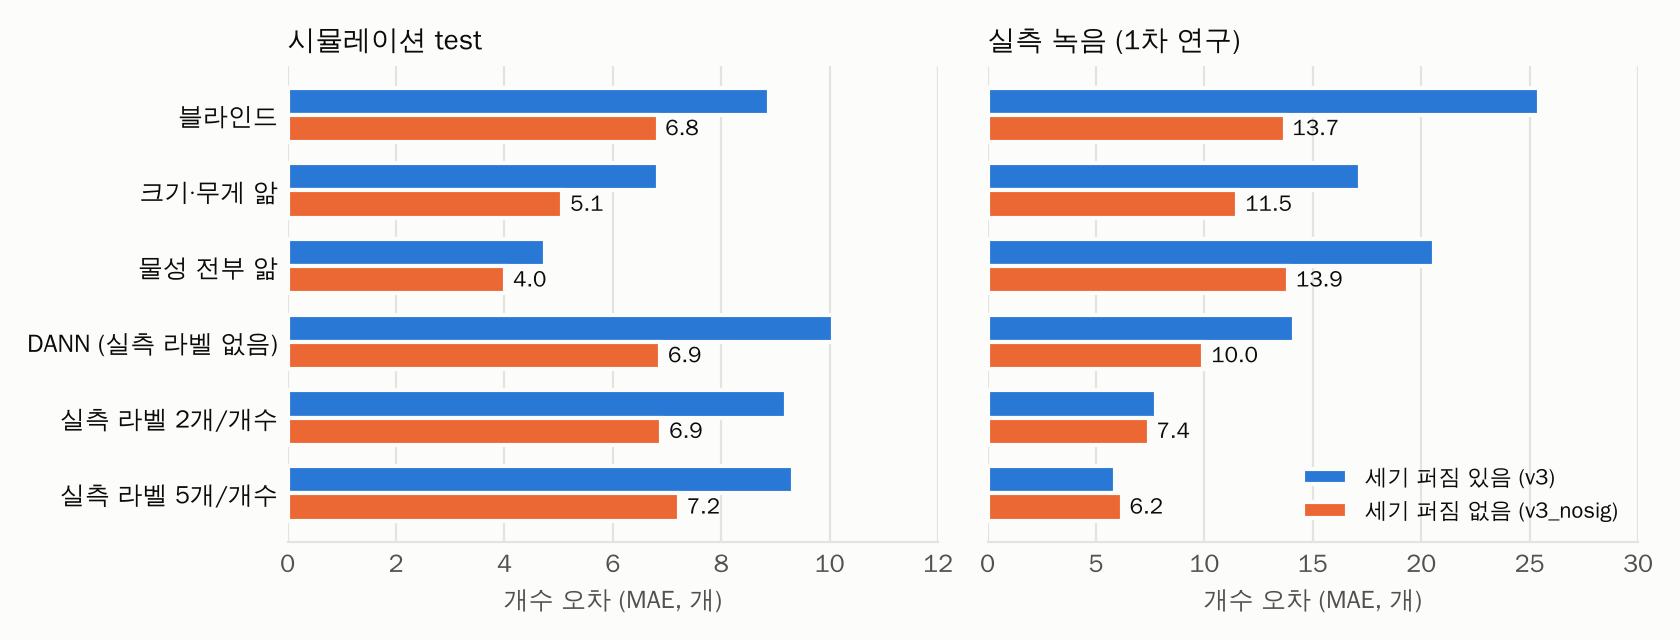
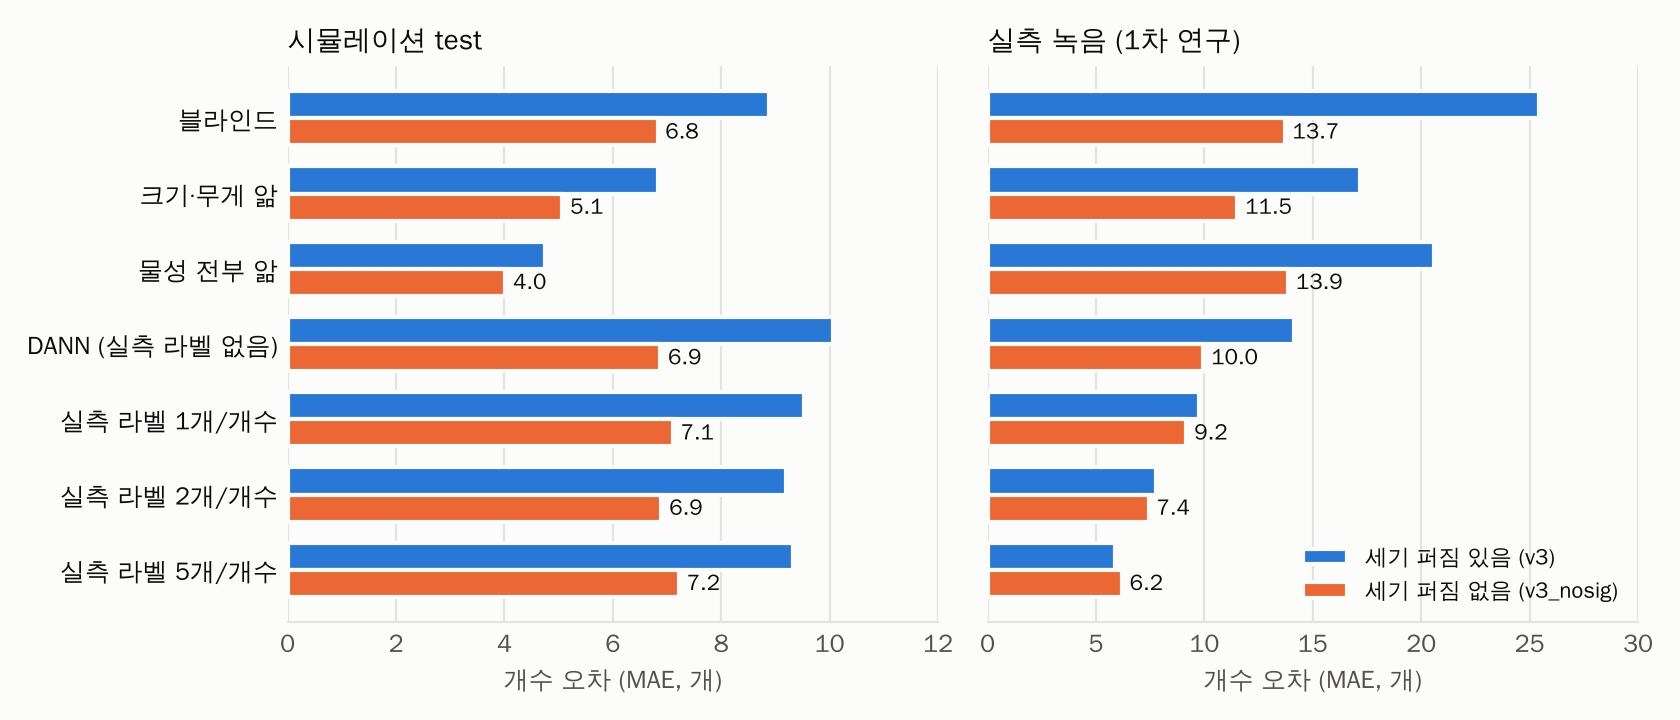
보고서: V8~V11 결과 (DANN + 크기·무게 앎으로 실측 7.3), 시드 반복, 앙상블 정리
Claude-Session: https://claude.ai/code/session_01LuqW9C84oeRM5QGpj8zSCT

diff --git a/scripts/make_result_figures.py b/scripts/make_result_figures.py
@@ -54,10 +54,11 @@ def fig_nosig_real():
             ("크기·무게 앎", "A2_known_size_weight", "V2_nosig_known_size_weight"),
             ("물성 전부 앎", "A3_known_all", "V3_nosig_known_all"),
             ("DANN (실측 라벨 없음)", "C1_dann", "V4_nosig_dann"),
+            ("실측 라벨 1개/개수", "G_real_labeled_1", "V11_nosig_real_labeled_1"),
             ("실측 라벨 2개/개수", "G_real_labeled_2", "V6_nosig_real_labeled_2"),
             ("실측 라벨 5개/개수", "G_real_labeled_5", "V7_nosig_real_labeled_5")]
     rows = [r for r in rows if r[1] in R and r[2] in R]
-    fig, axs = plt.subplots(1, 2, figsize=(8.4, 3.2), facecolor=SURF, sharey=True)
+    fig, axs = plt.subplots(1, 2, figsize=(8.4, 3.6), facecolor=SURF, sharey=True)
     y = np.arange(len(rows))[::-1]
     h = 0.36
     for ax, key, title, xmax in [(axs[0], "test", "시뮬레이션 test", 12), (axs[1], "real", "실측 녹음 (1차 연구)", 30)]:

diff --git a/docs/REPORT_DRAFT.md b/docs/REPORT_DRAFT.md
@@ -13,7 +13,7 @@
 
 1차 연구는 같은 비비탄을 담은 용기를 수직으로 흔들 때 나는 소리로 입자 개수를 추정했다 (웨이블릿 스케일로그램 CNN, 평균 절대오차 2.2개). 그러나 이 방법은 입자의 물성을 이미 안다는 전제에서만 성립한다. 소리는 개수와 물성(지름, 질량, 반발계수)의 조합에 반응하기 때문에, 물성이 바뀌면 "작은 입자 여러 개"와 "큰 입자 몇 개"가 비슷하게 들릴 수 있다.
 
-본 연구는 **입력은 소리뿐이고 물성은 모르는 상태에서** 개수와 물성을 함께 추정하는 것을 목표로 한다. 물성을 연속적으로 바꾸며 정확한 라벨을 붙인 실험 데이터를 대량으로 얻을 수 없으므로, 3차원 이산요소법(DEM) 동역학과 충돌음 합성으로 이루어진 물리 시뮬레이터를 만들고, 1차 연구의 실제 녹음으로 시뮬레이터를 보정했다. 보정 과정에서 (1) 실제 가진 속도가 녹음마다 6.04~6.64 Hz로 달랐고, (2) 입자끼리의 충돌은 거의 탄성적(e ≈ 0.95)인 반면 입자-벽 충돌은 손실이 크다(e ≈ 0.7)는 것을 찾았다. 물성을 무작위로 바꾼 시뮬레이션 데이터 약 2만 클립으로 개수·물성 동시 추정 모델을 학습하고, 물성을 알려 줄 때와 모를 때, 여러 가진 속도를 함께 쓸 때를 비교했다. 물성을 모르는 모델은 시뮬레이션에서 평균 6.8개, 학습에 없던 물질에서 6.9개 오차로 개수를 맞히고 지름도 함께 추정했으며, 지름·무게를 알려 주면 5.1개로 줄었다. 여러 가진 속도의 소리를 함께 쓰면 물성 추정이 좋아졌다 (지름 R² 0.62 → 0.78). 실제 녹음에서는 처음에 보정한 합성음이 오히려 나빴는데 (평균 25개 오차), 소리만 바꾼 대조 실험으로 원인이 진폭 분포를 맞추려 넣은 충돌별 세기 무작위화임을 밝혔고, 이를 빼자 13.7개로 줄었다. 라벨 없는 실측 녹음으로 도메인 적응을 하면 정답 없이 10.0개, 개수별 녹음 5개에 정답을 붙이면 6.2개였다.
+본 연구는 **입력은 소리뿐이고 물성은 모르는 상태에서** 개수와 물성을 함께 추정하는 것을 목표로 한다. 물성을 연속적으로 바꾸며 정확한 라벨을 붙인 실험 데이터를 대량으로 얻을 수 없으므로, 3차원 이산요소법(DEM) 동역학과 충돌음 합성으로 이루어진 물리 시뮬레이터를 만들고, 1차 연구의 실제 녹음으로 시뮬레이터를 보정했다. 보정 과정에서 (1) 실제 가진 속도가 녹음마다 6.04~6.64 Hz로 달랐고, (2) 입자끼리의 충돌은 거의 탄성적(e ≈ 0.95)인 반면 입자-벽 충돌은 손실이 크다(e ≈ 0.7)는 것을 찾았다. 물성을 무작위로 바꾼 시뮬레이션 데이터 약 2만 클립으로 개수·물성 동시 추정 모델을 학습하고, 물성을 알려 줄 때와 모를 때, 여러 가진 속도를 함께 쓸 때를 비교했다. 물성을 모르는 모델은 시뮬레이션에서 평균 6.8개, 학습에 없던 물질에서 6.9개 오차로 개수를 맞히고 지름도 함께 추정했으며, 지름·무게를 알려 주면 5.1개로 줄었다. 여러 가진 속도의 소리를 함께 쓰면 물성 추정이 좋아졌다 (지름 R² 0.62 → 0.78). 실제 녹음에서는 처음에 보정한 합성음이 오히려 나빴는데 (평균 25개 오차), 소리만 바꾼 대조 실험으로 원인이 진폭 분포를 맞추려 넣은 충돌별 세기 무작위화임을 밝혔고, 이를 빼자 13.7개로 줄었다. 라벨 없는 실측 녹음으로 도메인 적응을 하면 정답 없이 10.0개, 여기에 실제로 잰 지름·무게를 알려 주면 7.3개, 개수별 녹음 5개에 정답을 붙이면 6.2개였다. 남은 실측 오차는 물질 혼동이 아니라 적은 입자가 더 동기화되어 튀는 동역학의 차이에서 왔다.
 
 주제어: 진동 음향 신호, 개수 추정, 수직 가진 과립계, 이산요소법, 시뮬레이션-실측 차이(sim2real), 도메인 무작위화
 
@@ -289,16 +289,20 @@ N 평균 절대오차 (개). test = 학습과 같은 물성 분포의 새 실행
 
 | 실험 | 세기 퍼짐 있음 (v3): test / 실측 | **세기 퍼짐 없음 (v3_nosig): test / OOD / 실측** | 실측 ±5개 이내 |
 |---|---|---|---|
-| 블라인드 | 8.9 / 25.4 (A1) | 6.8 / 6.9 / **13.7** (V1) | 15% → 19% |
+| 블라인드 | 8.9 / 25.4 (A1) | 6.8 / 6.9 / **13.7** (V1; 시드 반복 V9 13.5) | 15% → 19% |
 | 크기·무게 앎 | 6.8 / 17.2 (A2) | 5.1 / 5.4 / **11.5** (V2) | 17% → 20% |
 | 전부 앎 | 4.8 / 20.6 (A3) | 4.0 / 4.4 / **13.9** (V3) | 15% → 14% |
-| DANN (라벨 없는 실측 5개/개수) | 10.1 / 14.1 (C1) | 6.9 / 7.2 / **10.0** (V4) | 18% → 39% |
+| DANN (라벨 없는 실측 5개/개수) | 10.1 / 14.1 (C1) | 6.9 / 7.2 / **10.0** (V4; 시드 반복 V10 10.2) | 18% → 39% |
+| **DANN + 크기·무게 앎** | – | 5.5 / 6.1 / **7.3** (V8) | 48% |
 | HPSS + 잡음 제거 + DANN | 9.5 / 17.9 (B8) | 7.0 / 7.3 / **12.3** (V5) | 16% → 20% |
+| 실측 라벨 1개/개수 | 9.5 / 9.7 (G1) | 7.1 / 7.1 / **9.2** (V11) | 36% → 39% |
 | 실측 라벨 2개/개수 | 9.2 / 7.8 (G2) | 6.9 / 6.9 / **7.4** (V6) | 47% → 44% |
 | 실측 라벨 5개/개수 | 9.3 / 5.9 (G5) | 7.2 / 7.3 / **6.2** (V7) | 53% → 53% |
 
 - 세기 퍼짐을 빼자 **시뮬레이션과 실측이 함께 좋아졌다**: 블라인드 실측 25.4 → 13.7 (거의 절반), 크기·무게 앎 17.2 → 11.5 (실측 편향 +7.3 → +0.5). 시뮬레이션 test도 모든 실험에서 20~30% 줄었다 (8.9 → 6.8 등) — 세기 퍼짐은 시뮬레이션 안에서도 개수 단서를 흐리는 잡음이었다.
-- **실측 정답을 하나도 쓰지 않은 모델 중 최고는 V4 (DANN, 실측 MAE 10.0, ±5개 이내 39%)**로, 보정 전 데이터의 최고(R0 11.5)보다 낫고 시뮬레이션(6.9)·처음 보는 물질(7.2)에서도 좋다.
+- **물질을 모르고 실측 정답도 쓰지 않은 모델 중 최고는 V4 (DANN, 실측 MAE 10.0, 시드 반복 10.2)**로, 보정 전 데이터의 최고(R0 11.5)보다 낫고 시뮬레이션(6.9)·처음 보는 물질(7.2)에서도 좋다.
+- **실측 정답 없이 가장 좋은 모델은 V8 (DANN + 지름·무게 앎): 실측 MAE 7.3, ±5개 이내 48%, 편향 −1.0** — 개수별 실측 정답 2개를 붙인 모델(G2 7.8, V6 7.4)과 같은 수준이다. 실측 쪽의 도메인 적응과 실제로 잰 물성이 서로 다른 오차(소리 차이 / 물질 혼동)를 줄이기 때문에 효과가 더해진다 (V2 11.5, V4 10.0 → V8 7.3).
+- 시드 반복으로 결과가 재현된다: 블라인드 13.7 / 13.5 (V1 / V9), DANN 10.0 / 10.2 (V4 / V10).
 - 실측 라벨을 섞으면 데이터 차이가 거의 상쇄된다 (G5 5.9 ≈ V7 6.2). 이때도 시뮬레이션 성능은 세기 퍼짐 없는 쪽이 낫다 (9.3 → 7.2).
 - 블라인드 모델에 남은 실측 오차는 적은 개수의 과대 추정 (N 5~25에서 +17)과 많은 개수의 과소 추정 (N 80~100에서 −10)이다.
 
@@ -308,7 +312,7 @@ N 평균 절대오차 (개). test = 학습과 같은 물성 분포의 새 실행
 - 즉 실제 BB는 적을 때 시뮬레이션보다 더 함께(동기화되어) 튀고, 많을 때는 더 빨리 흐트러진다. 1차 연구의 상전이 관점에서는 실제 계의 Γc(N)이 시뮬레이션과 다르다는 뜻일 수 있다 (4.1). 이 부분은 음향이 아니라 동역학의 문제이므로, 슬로모션 촬영이나 반발계수 직접 측정으로 확인해야 한다.
 - 같은 N 안에서는 15~23 kHz 포락선의 빠른 질감 변조가 큰 녹음일수록 적게 센다 (상관 −0.46). 가진 속도 차이의 영향은 작다 (−0.13).
 
-**앙상블**: 같은 설정의 시드 3개를 평균해도 실측 오차는 그대로다 (A1 25.4 → 25.3, A2 17.2 → 17.2). 실측 오차가 무작위가 아니라 체계적 편향이기 때문이다. 대신 예측 구간의 신뢰도는 좋아진다: 크기·무게 앎(V2)과 DANN(V4)을 평균하면 실측 10.1, 2σ 구간 안에 드는 비율 81% (단일 모델 57~70%).
+**앙상블**: 같은 설정의 시드 3개를 평균해도 실측 오차는 그대로다 (A1 25.4 → 25.3, A2 17.2 → 17.2). 실측 오차가 무작위가 아니라 체계적 편향이기 때문이다. 세기 퍼짐 없는 데이터에서도 같다 (블라인드 V1+V9 13.5, DANN V4+V10 10.0). 편향이 다른 모델끼리 섞으면 예측 구간의 신뢰도는 좋아지지만 (V2+V8: 2σ 구간 안 85%), 실측 MAE는 가장 좋은 단일 모델(V8 7.3)을 넘지 못한다 (9.1).
 
 **실측 녹음 몇 개에 정답을 붙이면 (묶음 G)**: 개수별 1 / 2 / 5개 → 실측 9.7 / 7.8 / **5.9** (±5개 이내 36 / 47 / 53%). 시뮬레이션 성능은 그대로(9.2~9.5)이므로, 실측 몇 개로 시뮬레이션과 실측의 차이만 보정한다.
 
@@ -327,7 +331,7 @@ N 평균 절대오차 (개). test = 학습과 같은 물성 분포의 새 실행
 1. **물성을 모르면 얼마나 어려워지나** — 이론 하한(크라메르-라오)은 물질을 모를 때 약 2.5배 나빠진다. 학습한 모델에서도 같은 혼동이 "작은 입자 여러 개 vs 큰 입자 몇 개"(N 오차와 지름 오차의 상관 −0.44)로 나타났다. 그래도 블라인드 모델은 시뮬레이션에서 평균 6.8개, 학습에 없던 물질에서도 6.9개 오차로 개수를 맞혔고, 지름도 함께 추정했다 (R² 0.65).
 2. **물성을 알려 주면** — 시뮬레이션에서는 크기·무게만 알려도 25%, 전부 알리면 40% 좋아진다 (6.8 → 5.1 → 4.0). 효과는 위의 혼동을 없애는 데서 온다 (상관 −0.44 → 0). 실측에서는 **실제로 잰 지름·무게만 도움이 되고**, 추정한 반발계수나 모르는 탄성률을 넣으면 오히려 나빠진다 → 정확히 아는 물성만 알려 줘야 한다.
 3. **여러 가진 속도** — 물성 추정이 좋아진다 (지름 R² 0.62 → 0.78). 개수는 시뮬레이션에서 단일 조건과 비슷하다. 실측 검증은 여러 속도의 녹음이 필요하다.
-4. **시뮬레이션만으로 학습한 모델이 실측에 통하나** — 통한다. 실측 정답 없이 실측 오차 10.0개 (±5개 이내 39%, V4), 개수별 실측 녹음 5개에 정답을 붙이면 5.9~6.2개 (±5개 이내 53%). 이를 위해 필요했던 것은 (a) 실측으로 보정한 시뮬레이터, (b) **보정 때 넣은 무작위화가 다른 통계를 망치지 않는지 확인하는 것**, (c) 라벨 없는 실측 녹음으로 하는 도메인 적응이다.
+4. **시뮬레이션만으로 학습한 모델이 실측에 통하나** — 통한다. 실측 정답 없이 물질을 모르면 10.0개 (V4), 실제로 잰 지름·무게를 알려 주면 7.3개 (±5개 이내 48%, V8), 개수별 실측 녹음 5개에 정답을 붙이면 5.9~6.2개 (±5개 이내 53%). 이를 위해 필요했던 것은 (a) 실측으로 보정한 시뮬레이터, (b) **보정 때 넣은 무작위화가 다른 통계를 망치지 않는지 확인하는 것**, (c) 라벨 없는 실측 녹음으로 하는 도메인 적응이다.
 5. **어떤 성분이 개수를 가르나** — 시뮬레이션에서 좋은 특징일수록 실측에서 나빴다. 합성음과 실측의 차이를 가장 크게 만든 것은 고음 대역(8~23 kHz) 포락선의 느린 변동이었다.
 
 **이 연구에서 새로 알게 된 것**

diff --git a/results/ml/summary_table.md b/results/ml/summary_table.md
@@ -58,8 +58,13 @@
 | V2_nosig_known_size_weight | V | v3_nosig | 5.1 | 5.4 | 11.5 | +0.5 | 20% | -0.54 | 5.98 | +0.03 |
 | V3_nosig_known_all | V | v3_nosig | 4.0 | 4.4 | 13.9 | +4.6 | 14% | -0.27 | 6.33 | -0.07 |
 | V4_nosig_dann | V | v3_nosig | 6.9 | 7.2 | 10.0 | +5.4 | 39% | 0.63 | 5.82 | -0.42 |
+| V5_nosig_hpss_denoise_dann | V | v3_nosig | 7.0 | 7.3 | 12.3 | +7.5 | 20% | 0.63 | 5.58 | -0.42 |
 | V6_nosig_real_labeled_2 | V | v3_nosig | 6.9 | 6.9 | 7.4 | +1.9 | 44% | 0.67 | 5.91 | -0.42 |
 | V7_nosig_real_labeled_5 | V | v3_nosig | 7.2 | 7.3 | 6.2 | -1.3 | 53% | 0.64 | 5.93 | -0.40 |
+| V8_nosig_dann_known_size_weight | V | v3_nosig | 5.5 | 6.1 | 7.3 | -1.0 | 48% | -0.43 | 5.94 | +0.03 |
+| V9_nosig_blind_s1 | V | v3_nosig | 6.8 | 7.2 | 13.5 | +7.1 | 22% | 0.66 | 5.07 | -0.42 |
+| V10_nosig_dann_s1 | V | v3_nosig | 7.3 | 7.3 | 10.2 | +6.0 | 27% | 0.62 | 6.17 | -0.43 |
+| V11_nosig_real_labeled_1 | V | v3_nosig | 7.1 | 7.1 | 9.2 | +3.1 | 39% | 0.65 | 5.79 | -0.42 |
 | K1_diameter | K | v1 | 7.4 | 8.1 | 18.7 | +7.7 | 14% | -0.16 | 5.54 | +0.07 |
 | K2_mass | K | v1 | 7.8 | 7.8 | 21.1 | +14.6 | 17% | -0.01 | 6.02 | -0.22 |
 | K3_density | K | v1 | 9.1 | 9.5 | 25.5 | +19.1 | 17% | -0.02 | 6.00 | -0.15 |
